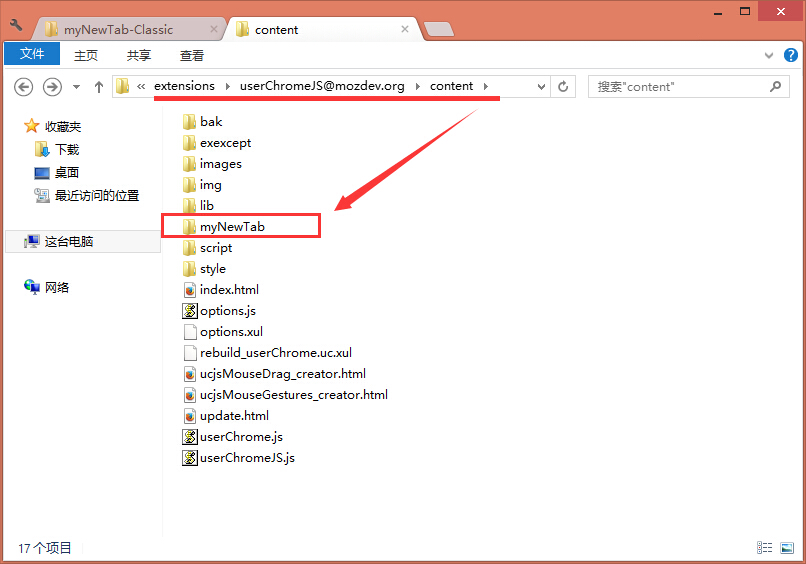
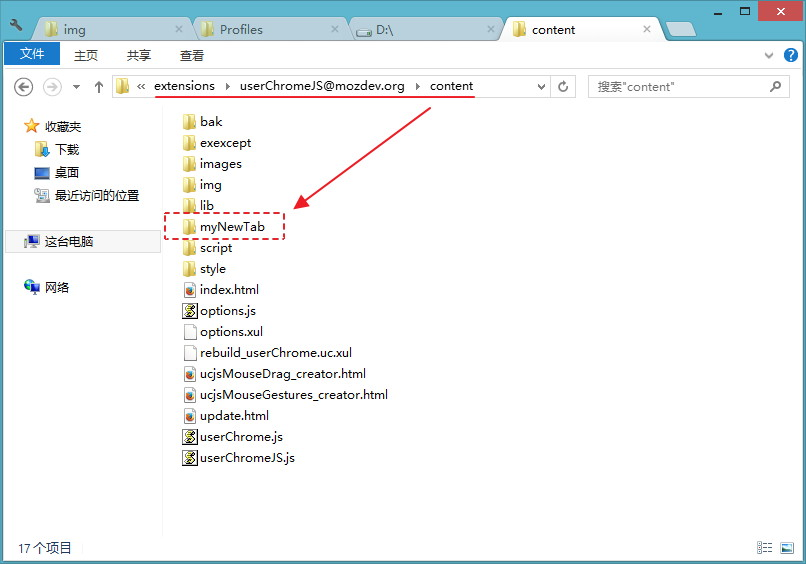
06.28

diff --git a/myNewTab-Classic/README.md b/myNewTab-Classic/README.md
@@ -14,11 +14,11 @@ by **Defpt & ywzhaiqi**
 
 原來Favicon可以用在線形式，用了快一年才知道。。。
 
-[**原作者發佈地址**][1]
+[**原作者發佈地址**](http://bbs.kafan.cn/thread-1759418-1-1.html)
 
 ###使用方法：
 
-第1步、解压后，把myNewTab整个文件夹复制到『extensions\userChromeJS@mozdev.org\content』下面，如图：
+第1步、解压后，把myNewTab整个文件夹复制到content文件夹下面，如图：
  
 ![文件夹位置示意图](img/position.jpg)
 
@@ -33,6 +33,3 @@ by **Defpt & ywzhaiqi**
 大功告成！效果图：
 
 ![myNewTab-Classic预览图](img/myNewTab-Classic.jpg)
-
-[1]: http://bbs.kafan.cn/thread-1759418-1-1.html
-

diff --git a/myNewTab-Deepin/README.md b/myNewTab-Deepin/README.md
@@ -20,7 +20,7 @@ Fix image download by **Qing**
 
 ###使用方法：
 
-第1步、解压后，把myNewTab整个文件夹复制到『extensions\userChromeJS@mozdev.org\content』下面，如图：
+第1步、解压后，把myNewTab整个文件夹复制到content文件夹下面，如图：
  
 ![文件夹位置示意图][2]
 
